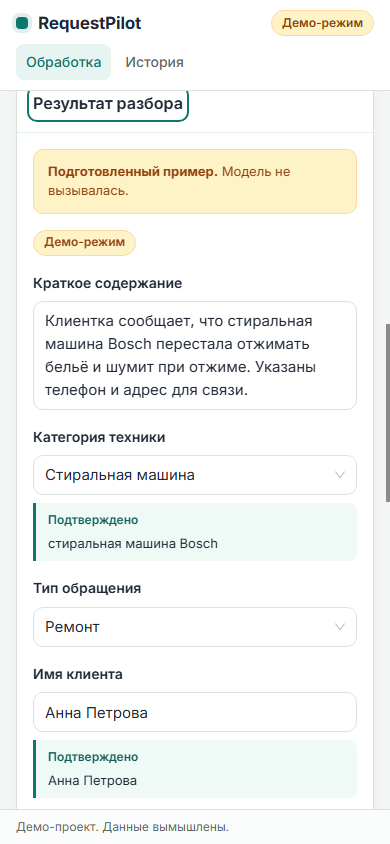
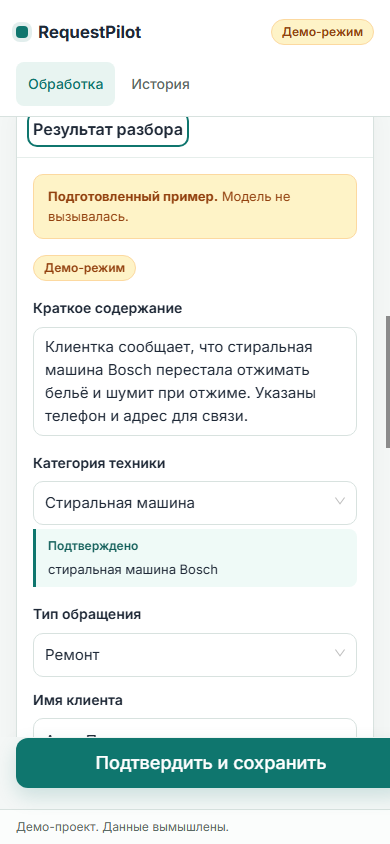
Этап 6: мобильная версия и доступность

diff --git a/src/features/processing/AnalysisEditor.tsx b/src/features/processing/AnalysisEditor.tsx
@@ -151,15 +151,19 @@ export function AnalysisEditor({ result, isStale, saving, saveError, saveRecover
               control={control}
               name="category"
               render={({ field, fieldState }) => (
-                <Select<string>
-                  id="analysis-category"
-                  value={field.value ?? CATEGORY_NONE}
-                  onChange={(value) => field.onChange(toCategoryId(value))}
-                  onBlur={field.onBlur}
-                  options={categoryOptions}
-                  status={fieldState.error ? 'error' : undefined}
-                  aria-invalid={fieldState.error !== undefined}
-                />
+                <>
+                  <Select<string>
+                    id="analysis-category"
+                    value={field.value ?? CATEGORY_NONE}
+                    onChange={(value) => field.onChange(toCategoryId(value))}
+                    onBlur={field.onBlur}
+                    options={categoryOptions}
+                    status={fieldState.error ? 'error' : undefined}
+                    aria-invalid={fieldState.error !== undefined}
+                    aria-describedby={fieldState.error ? 'analysis-category-error' : undefined}
+                  />
+                  <FieldError id="analysis-category-error" message={fieldState.error?.message} />
+                </>
               )}
             />
             <EvidenceNote evidence={categoryEvidence} />
@@ -173,15 +177,19 @@ export function AnalysisEditor({ result, isStale, saving, saveError, saveRecover
               control={control}
               name="requestType"
               render={({ field, fieldState }) => (
-                <Select<RequestType>
-                  id="analysis-request-type"
-                  value={field.value}
-                  onChange={(value) => field.onChange(value)}
-                  onBlur={field.onBlur}
-                  options={requestTypeOptions}
-                  status={fieldState.error ? 'error' : undefined}
-                  aria-invalid={fieldState.error !== undefined}
-                />
+                <>
+                  <Select<RequestType>
+                    id="analysis-request-type"
+                    value={field.value}
+                    onChange={(value) => field.onChange(value)}
+                    onBlur={field.onBlur}
+                    options={requestTypeOptions}
+                    status={fieldState.error ? 'error' : undefined}
+                    aria-invalid={fieldState.error !== undefined}
+                    aria-describedby={fieldState.error ? 'analysis-request-type-error' : undefined}
+                  />
+                  <FieldError id="analysis-request-type-error" message={fieldState.error?.message} />
+                </>
               )}
             />
           </div>
@@ -305,15 +313,19 @@ export function AnalysisEditor({ result, isStale, saving, saveError, saveRecover
               control={control}
               name="urgency"
               render={({ field, fieldState }) => (
-                <Select<Urgency>
-                  id="analysis-urgency"
-                  value={field.value}
-                  onChange={(value) => field.onChange(value)}
-                  onBlur={field.onBlur}
-                  options={urgencyOptions}
-                  status={fieldState.error ? 'error' : undefined}
-                  aria-invalid={fieldState.error !== undefined}
-                />
+                <>
+                  <Select<Urgency>
+                    id="analysis-urgency"
+                    value={field.value}
+                    onChange={(value) => field.onChange(value)}
+                    onBlur={field.onBlur}
+                    options={urgencyOptions}
+                    status={fieldState.error ? 'error' : undefined}
+                    aria-invalid={fieldState.error !== undefined}
+                    aria-describedby={fieldState.error ? 'analysis-urgency-error' : undefined}
+                  />
+                  <FieldError id="analysis-urgency-error" message={fieldState.error?.message} />
+                </>
               )}
             />
             <UrgencyEvidence value={values.urgency} evidence={urgencyEvidence} />
@@ -452,7 +464,15 @@ export function AnalysisEditor({ result, isStale, saving, saveError, saveRecover
               <ErrorNotice title="Не удалось подготовить сохранение" message={submitError} />
             </div>
           ) : null}
-          <Button type="primary" size="large" htmlType="submit" block loading={saving} disabled={!canSave}>
+          <Button
+            className="editor-submit"
+            type="primary"
+            size="large"
+            htmlType="submit"
+            block
+            loading={saving}
+            disabled={!canSave}
+          >
             Подтвердить и сохранить
           </Button>
           <p className="form-hint">

diff --git a/src/pages/ProcessPage.tsx b/src/pages/ProcessPage.tsx
@@ -50,10 +50,12 @@ export function ProcessPage() {
   const [saving, setSaving] = useState(false)
   const [saveError, setSaveError] = useState<string | null>(null)
   const [saveRecoveryAvailable, setSaveRecoveryAvailable] = useState(false)
+  const [resultInView, setResultInView] = useState(false)
 
   const abortRef = useRef<AbortController | null>(null)
   const generationRef = useRef(0)
   const resultHeadingRef = useRef<HTMLHeadingElement>(null)
+  const resultSectionRef = useRef<HTMLElement>(null)
   const recordIdRef = useRef<string | null>(null)
   const allowNavigationRef = useRef(false)
 
@@ -76,7 +78,53 @@ export function ProcessPage() {
 
   useEffect(() => {
     if (request.status === 'success') {
-      resultHeadingRef.current?.focus({ preventScroll: true })
+      const heading = resultHeadingRef.current
+
+      if (heading) {
+        if (window.matchMedia('(max-width: 1023px)').matches) {
+          heading.scrollIntoView({
+            behavior: window.matchMedia('(prefers-reduced-motion: reduce)').matches ? 'auto' : 'smooth',
+            block: 'start',
+          })
+        }
+
+        heading.focus({ preventScroll: true })
+      }
+    }
+  }, [request.status])
+
+  useEffect(() => {
+    if (request.status !== 'success') {
+      setResultInView(false)
+      return
+    }
+
+    const section = resultSectionRef.current
+
+    if (!section || typeof IntersectionObserver === 'undefined') {
+      return
+    }
+
+    const observer = new IntersectionObserver(
+      (entries) => {
+        const entry = entries[0]
+        setResultInView(entry?.isIntersecting ?? false)
+      },
+      { threshold: 0.15 },
+    )
+
+    observer.observe(section)
+
+    return () => {
+      observer.disconnect()
+    }
+  }, [request.status])
+
+  useEffect(() => {
+    document.body.classList.toggle('app-result-visible', request.status === 'success')
+
+    return () => {
+      document.body.classList.remove('app-result-visible')
     }
   }, [request.status])
 
@@ -245,6 +293,20 @@ export function ProcessPage() {
     message.info('Запрос отменён')
   }
 
+  function scrollToResult() {
+    const section = resultSectionRef.current
+
+    if (!section) {
+      return
+    }
+
+    section.scrollIntoView({
+      behavior: window.matchMedia('(prefers-reduced-motion: reduce)').matches ? 'auto' : 'smooth',
+      block: 'start',
+    })
+    resultHeadingRef.current?.focus({ preventScroll: true })
+  }
+
   async function handleConfirm(analysis: Analysis) {
     if (!request.result || !analyzedText || isStale || saving) {
       return
@@ -316,7 +378,7 @@ export function ProcessPage() {
           : ''
 
   return (
-    <div className="page page--workspace">
+    <div className={`page page--workspace${resultInView ? ' page--result-visible' : ''}`}>
       <div className="page-heading">
         <h1>Обработка обращения</h1>
         <p>Вставьте обращение клиента или выберите пример, затем запустите разбор.</p>
@@ -426,7 +488,7 @@ export function ProcessPage() {
           </div>
         </section>
 
-        <section className="surface surface--result" aria-labelledby="result-heading">
+        <section className="surface surface--result" aria-labelledby="result-heading" ref={resultSectionRef}>
           <div className="surface__header">
             <h2 className="surface__title" id="result-heading" tabIndex={-1} ref={resultHeadingRef}>
               Результат разбора
@@ -486,6 +548,12 @@ export function ProcessPage() {
           </div>
         </section>
       </div>
+
+      {request.status === 'success' && !resultInView ? (
+        <Button className="to-result-button" type="primary" onClick={scrollToResult}>
+          К результату
+        </Button>
+      ) : null}
 
       <Modal
         open={blocker.state === 'blocked'}

diff --git a/src/styles/responsive.css b/src/styles/responsive.css
@@ -108,9 +108,71 @@
 
   .app-nav__link {
     flex: 0 0 auto;
-    min-height: 36px;
-    padding: 0 10px;
+    min-height: 44px;
+    padding: 0 12px;
     font-size: 14px;
+  }
+
+  .app-brand,
+  .back-link {
+    display: inline-flex;
+    align-items: center;
+    min-height: 44px;
+  }
+
+  .ant-btn {
+    min-height: 44px;
+  }
+
+  .form-field .ant-input:not(textarea),
+  .form-field .ant-select-selector,
+  .history-toolbar .ant-input-affix-wrapper,
+  .history-toolbar .ant-select-selector {
+    min-height: 44px;
+  }
+
+  .form-field .ant-select-selector,
+  .history-toolbar .ant-select-selector {
+    align-items: center;
+  }
+
+  .app-content {
+    scroll-padding-bottom: 88px;
+  }
+
+  body.app-result-visible .app-content {
+    margin-bottom: 72px;
+  }
+
+  .analysis-form {
+    padding-bottom: 64px;
+  }
+
+  .editor-submit {
+    position: fixed;
+    right: 16px;
+    bottom: 56px;
+    left: 16px;
+    z-index: 25;
+    width: auto;
+    visibility: hidden;
+    pointer-events: none;
+    box-shadow: 0 8px 20px rgba(15, 118, 110, 0.18);
+  }
+
+  .page--result-visible .editor-submit {
+    visibility: visible;
+    pointer-events: auto;
+  }
+
+  .to-result-button {
+    display: inline-flex;
+    position: fixed;
+    right: 16px;
+    bottom: 56px;
+    z-index: 30;
+    min-height: 44px;
+    box-shadow: 0 8px 20px rgba(31, 41, 55, 0.16);
   }
 
   .app-header__mode {

diff --git a/src/styles/components.css b/src/styles/components.css
@@ -217,6 +217,10 @@
   margin-top: 16px;
 }
 
+.to-result-button {
+  display: none;
+}
+
 .empty-state {
   display: flex;
   flex-direction: column;

diff --git a/README.md b/README.md
@@ -6,9 +6,8 @@
 черновик ответа, а затем подтверждает результат. Приложение не отправляет
 сообщения клиентам и не создаёт записи во внешней CRM.
 
-Сейчас завершены **этапы 1-5**: каркас, общие контракты, демо-режим, основной
-экран, история, реальный DeepSeek и лимиты надёжности. Следующие этапы -
-мобильная доступность и автотесты.
+Сейчас завершены **этапы 1-6**: каркас, контракты, демо-режим, основной экран,
+история, DeepSeek, лимиты и мобильная доступность. Следующий этап - автотесты.
 
 ## Что уже работает
 
@@ -31,6 +30,13 @@
   списки недостающих сведений и вопросов, черновик ответа.
 - Рабочий стол: шапка и футер закреплены, колонки обработки и карточки прокручиваются
   независимо. На мобильном остаётся одна общая прокрутка.
+- Мобильная версия от 360 px: одна колонка, отсутствие горизонтальной прокрутки,
+  цели нажатия от 44 px. После разбора страница прокручивается к результату, пока
+  он ниже видна кнопка «К результату», кнопка сохранения закреплена внизу.
+- Доступность: видимые подписи, `aria-describedby` и `role="alert"` у ошибок,
+  фокус на заголовке результата и сохранённой записи, клавиатурная навигация,
+  контраст не ниже 4.5:1, модальные окна Ant Design с удержанием фокуса и Esc,
+  поддержка `prefers-reduced-motion`.
 - Подтверждение и сохранение: запись в IndexedDB, переход к сохранённому разбору,
   защита от дублей и лимит 100 записей.
 - Защита несохранённых изменений: подтверждение при уходе, выборе другого примера,
@@ -204,6 +210,12 @@ npm run build
   повторного обращения к модели;
 - production-сервер отдаёт приложение, статику и SPA-fallback, а Helmet добавляет
   защитные заголовки;
+- мобильный сценарий на 360 px: одна колонка, нет горизонтальной прокрутки,
+  цели нажатия 44 px, автоматический переход к результату, кнопка «К результату»
+  и закреплённое сохранение;
+- фокус после разбора переходит на заголовок результата, после сохранения - на
+  заголовок записи; ошибки связаны с полями через `aria-describedby`;
+- контраст основных пар текст/фон проверен, минимальное значение выше 4.5:1;
 - проверка вёрстки на 1440 px и 390 px без горизонтальной прокрутки.
 
 Live-запрос к DeepSeek не запускался в этой среде, потому что ключ не задан.
@@ -223,7 +235,6 @@ Live-запрос к DeepSeek не запускался в этой среде, 
 - Лимиты хранятся в памяти процесса: сбрасываются при перезапуске и не работают
   между несколькими инстансами. Для публичного live-демо нужен внешний лимитер
   или шлюз, иначе безопаснее оставить демо-режим.
-- Мобильная доступность и детальная полировка - этап 6.
 - Автотесты Playwright - этап 7.
 - Для live-проверки DeepSeek нужен ключ в `.env`; без него доступны демо-режим,
   fake-провайдер и локальный mock.
